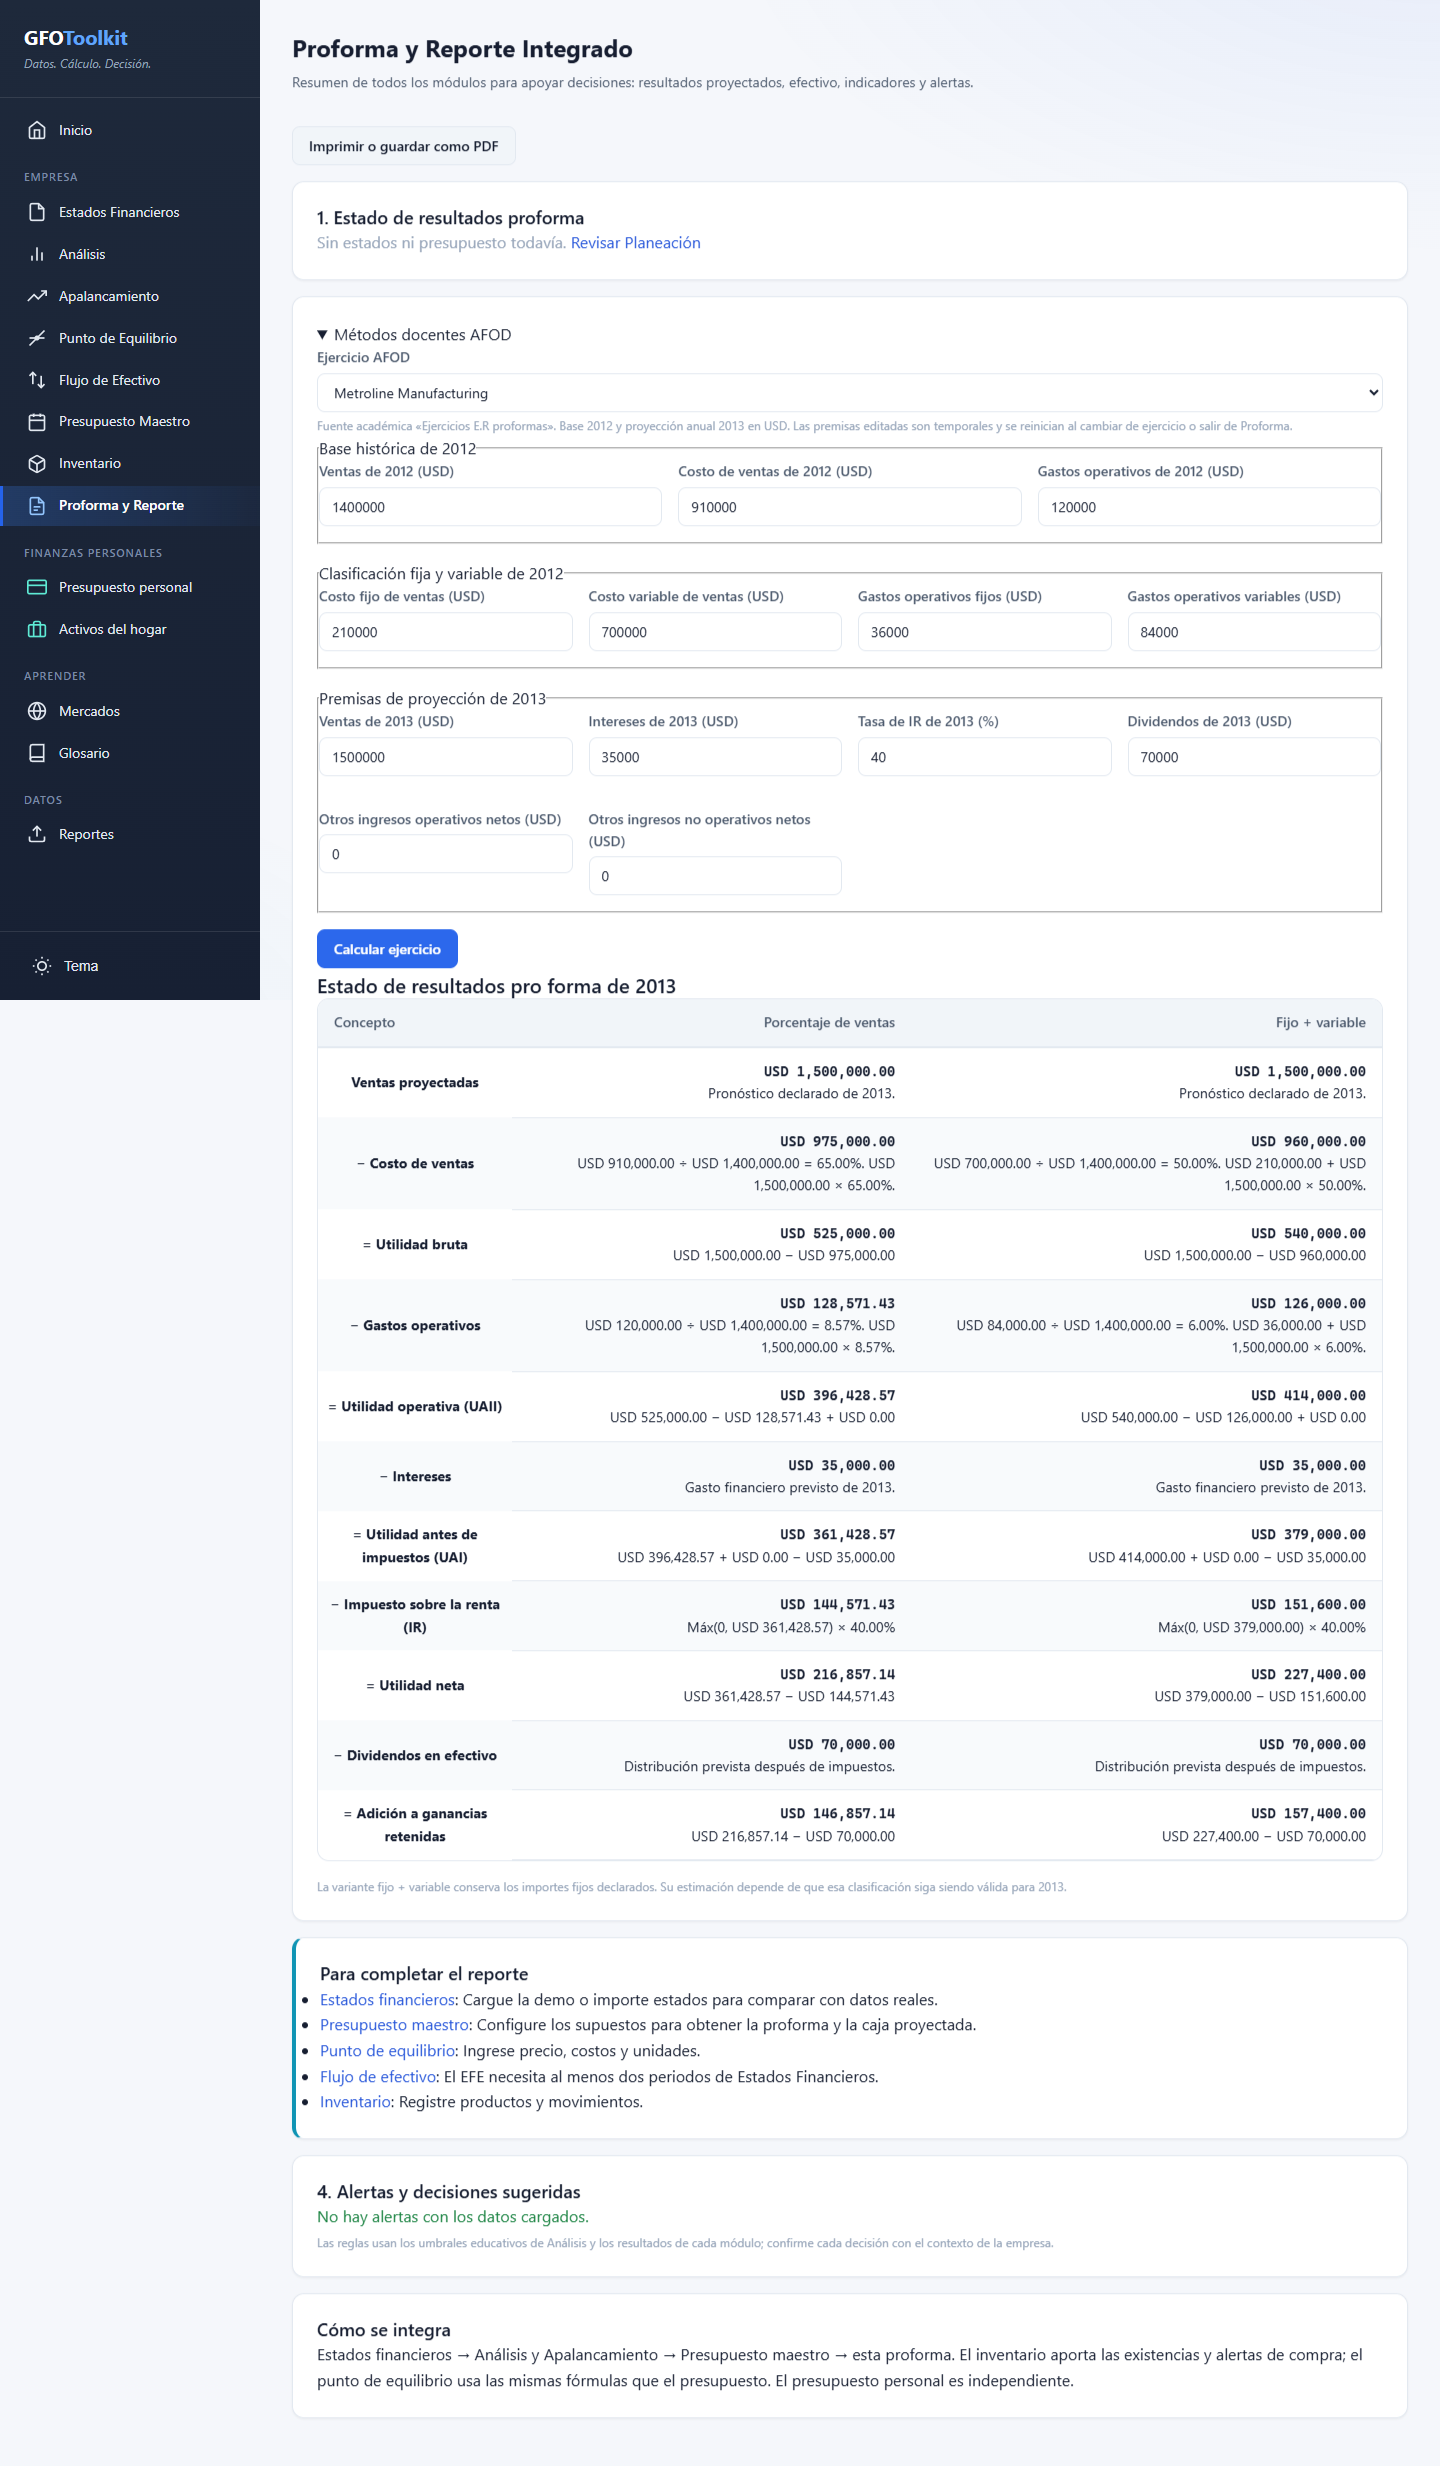
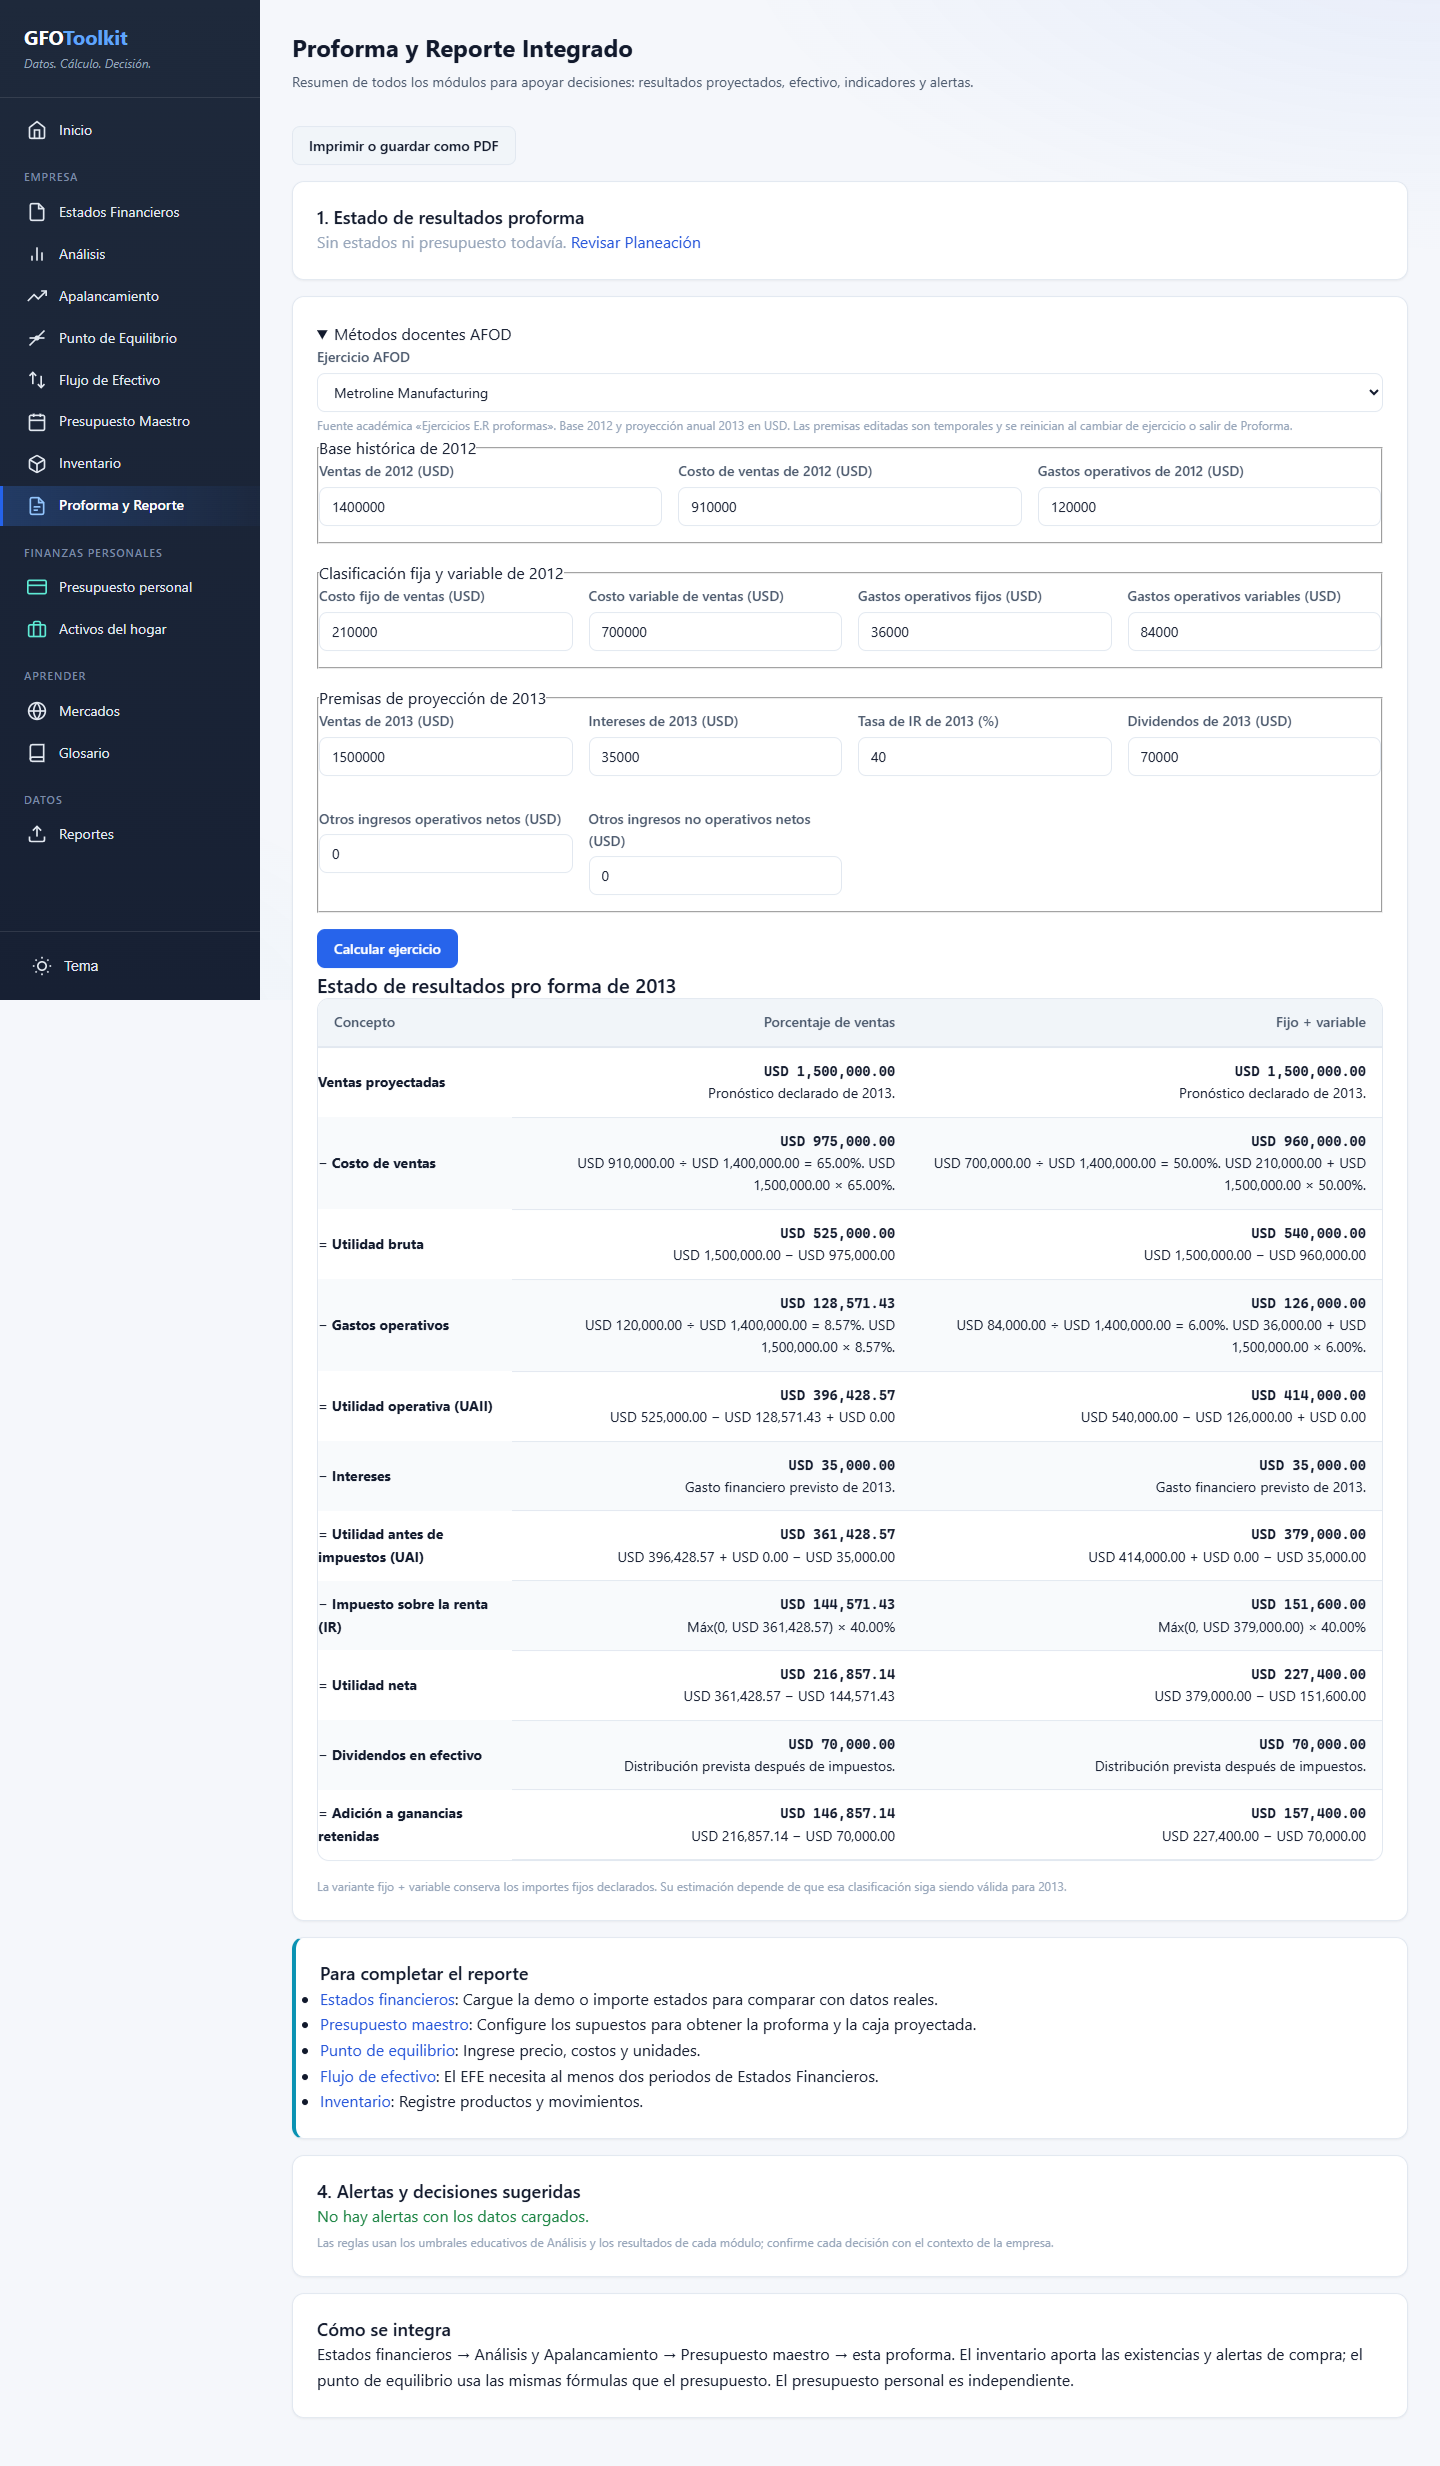
fix: conserva cálculos y limpia conceptos accesorios de caja

Changed region(s): [[0.2188, 0.5933, 0.3438, 0.6869], [0.2188, 0.7182, 0.3125, 0.7494]]

diff --git a/js/modules/planeacion/caja-docente-ui.js b/js/modules/planeacion/caja-docente-ui.js
@@ -12,13 +12,13 @@ function importe(id, etiqueta, numero) {
 }
 
 function campo(id, etiqueta, contenido) {
-  return `<div><label for="${id}">${etiqueta}</label>${contenido}</div>`;
+  return `<div class="form-group"><label class="form-label" for="${id}">${etiqueta}</label>${contenido}</div>`;
 }
 
 function tabla(titulo, etiquetas, filas, formatear = esc) {
-  return `<div class="card mb-3"><h3 class="card-title">${titulo}</h3><div class="table-wrapper"><table class="statement-table">
+  return `<div class="card mb-4"><h3 class="card-title">${titulo}</h3><div class="table-wrapper"><table class="statement-table">
     <thead><tr><th scope="col">Concepto</th>${etiquetas.map(p => `<th scope="col" class="text-right">${esc(p)}</th>`).join('')}</tr></thead>
-    <tbody>${filas.map(([etiqueta, datos]) => `<tr><th scope="row">${esc(etiqueta)}</th>${datos.map(dato =>
+    <tbody>${filas.map(([etiqueta, datos]) => `<tr><th scope="row" style="text-align:left">${esc(etiqueta)}</th>${datos.map(dato =>
       `<td class="text-right font-mono">${formatear(dato)}</td>`).join('')}</tr>`).join('')}</tbody>
   </table></div></div>`;
 }
@@ -38,7 +38,7 @@ function supuestos(plan) {
   const movimientos = tabla('Cobros y pagos declarados por fecha', meses, MOVIMIENTOS_CAJA.map(([id, nombre]) =>
     [nombre, plan.movimientos[id].map((v, i) => importe(`cajaDoc-${id}-${i}`, `${nombre} de ${meses[i]}`, v))]), String);
   return `<form id="formCajaDocente">
-    <div class="form-grid mb-3">
+    <div class="form-row mb-4">
       ${campo('cajaDoc-apertura', 'Saldo inicial', importe('cajaDoc-apertura', 'Saldo inicial', plan.apertura))}
       ${campo('cajaDoc-minimo', 'Saldo mínimo', importe('cajaDoc-minimo', 'Saldo mínimo', plan.minimo))}
       ${campo('cajaDoc-pctCompras', 'Compras como % de ventas', importe('cajaDoc-pctCompras', 'Compras como % de ventas', aPct(plan.pctCompras)))}
@@ -47,7 +47,7 @@ function supuestos(plan) {
     </div>
     <p class="form-hint">Escriba los porcentajes separados por espacios. El primero corresponde al mismo mes y los siguientes a los meses posteriores. Use cero para una ausencia confirmada y deje vacío un importe pendiente.</p>
     <details><summary>Editar ventas, gastos y movimientos</summary>${ventas}${gastos}${movimientos}</details>
-    <div class="d-flex flex-wrap gap-2 mt-3">
+    <div class="flex-gap flex-wrap mt-4">
       <button type="submit" value="calcular" class="btn btn-secondary">Calcular calendario</button>
       <button type="submit" value="guardar" class="btn btn-primary">Calcular y guardar</button>
     </div>
@@ -80,7 +80,7 @@ function resultados({ meses, moneda, financiamientoMaximo }) {
     ${origenes('Programación de pagos por origen', 'proveedores')}
     ${tabla('Otros cobros y desembolsos', periodos, [
       ...filas([MOVIMIENTOS_CAJA[0]], 'movimientos'), ...filas(GASTOS_CAJA, 'gastos'), ...filas(PAGOS_CAJA, 'movimientos')
-    ], monto)}`;
+    ].filter(([, importes]) => importes.some(importe => importe !== 0)), monto)}`;
 }
 
 function leerFormulario(form, plan) {
@@ -120,7 +120,7 @@ export function crearCajaDocenteUI(guardado, guardar) {
     const render = () => {
       const caso = CASOS_CAJA.find(([id]) => id === plan?.id);
       const halley = caso?.[0].startsWith('halley');
-      panel.innerHTML = `<div class="card mb-3"><h2 class="card-title">Presupuesto de caja por calendario</h2>
+      panel.innerHTML = `<div class="card mb-4"><h2 class="card-title">Presupuesto de caja por calendario</h2>
         <p class="form-hint">Escenarios de caja AFOD independientes del presupuesto maestro. El impuesto pagado se captura por fecha y los meses previos solo originan cobros y pagos.</p>
         <label for="cajaDocCaso">Referencia</label>
         <select id="cajaDocCaso" class="form-select">${CASOS_CAJA.map(([id, nombre]) =>

diff --git a/tests/unit/revision-carlos-pr34.test.js b/tests/unit/revision-carlos-pr34.test.js
@@ -8,9 +8,25 @@ import { ejemploInventario } from '../../js/modules/inventario/inventario-calcul
 import { transferenciaInventario } from '../../js/utils/transferencias.js';
 import { montarProformaDocente } from '../../js/modules/proforma/proforma-docente-ui.js';
 import { CASOS_PROFORMA_DOCENTE } from '../../js/modules/proforma/proforma-docente-ejemplos.js';
+import { crearCajaDocenteUI } from '../../js/modules/planeacion/caja-docente-ui.js';
+import { ejemploCajaDocente } from '../../js/modules/planeacion/caja-docente-ejemplos.js';
 import { element, llenar, enviar } from './helpers/dom-falso.js';
 
 afterEach(() => { vi.unstubAllGlobals(); vi.clearAllMocks(); });
+
+it('caja omite conceptos accesorios sin movimientos, conservando N/D y cálculos internos cero', () => {
+  const panel = element(), plan = ejemploCajaDocente('halley');
+  crearCajaDocenteUI(plan, vi.fn())(panel);
+  const html = panel.innerHTML.split('id="cajaDocResultados">')[1];
+  expect(html).not.toContain('>Publicidad</th>');
+  expect(html).toContain('>Impuesto pagado</th>');
+  expect(html).toContain('Financiamiento requerido');
+  expect(html).toContain('USD 0.00');
+  plan.gastos.publicidad.tasa = null;
+  crearCajaDocenteUI(plan, vi.fn())(panel);
+  expect(panel.innerHTML.split('id="cajaDocResultados">')[1]).toContain('>Publicidad</th>');
+  expect(panel.innerHTML.split('id="cajaDocResultados">')[1]).toContain('N/D');
+});
 
 it.each(['USD','UM','C$'])('Planeación conserva la moneda %s al preparar la transferencia de Inventario', moneda => {
   estado.inventario = { ...ejemploInventario(), moneda };

diff --git a/js/modules/proforma/proforma-docente-ui.js b/js/modules/proforma/proforma-docente-ui.js
@@ -58,7 +58,7 @@ function tabla(titulo, columnas, filas) {
   return `<section class="mb-4"><h3>${esc(titulo)}</h3><div class="table-wrapper">
     <table class="statement-table"><thead><tr><th scope="col">Concepto</th>
     ${columnas.map(nombre => `<th scope="col" class="text-right">${esc(nombre)}</th>`).join('')}</tr></thead>
-    <tbody>${filas.map(([nombre, ...celdas]) => `<tr><th scope="row">${esc(nombre)}</th>
+    <tbody>${filas.map(([nombre, ...celdas]) => `<tr><th scope="row" style="text-align:left">${esc(nombre)}</th>
       ${celdas.map(([valor, desarrollo]) => `<td class="text-right">
         <strong class="font-mono">${monto(valor)}</strong><span class="desarrollo-operacion">${esc(desarrollo)}</span>
       </td>`).join('')}</tr>`).join('')}</tbody></table></div></section>`;

diff --git a/docs/planificacion/cierre-encargo-afod/revision/DICTAMEN.md b/docs/planificacion/cierre-encargo-afod/revision/DICTAMEN.md
@@ -43,13 +43,15 @@ Se revisaron además los cambios de UAI reportada, correctora de incobrables, si
 
 ## Robustez, compatibilidad e interfaz
 
+La tabla de otros cobros/desembolsos de caja aplica la misma regla de accesorios: omite solo conceptos cuyos meses son todos cero, preserva N/D y conserva la conciliación y sus resultados internos. Una quinta regresión cubre esta salida. Se sustituyen además clases de cuadrícula/espaciado inexistentes por `form-row` y `flex-gap`, y se alinean a la izquierda los conceptos de las tablas nuevas. La comprobación en navegador cubre el ajuste de distribución.
+
 Las transferencias muestran actual/propuesto, unidad, naturaleza y procedencia; vuelven a leer origen/destino al aplicar. La firma impide aplicar una vista previa desactualizada. En Planeación/C-V-U se aplica al borrador y guardar valida/persiste; Flujo guarda el módulo completo. Una edición manual retira la procedencia del campo y un cambio posterior del origen deja aviso.
 
 La validación de respaldos admite metadata opcional y caja docente, rechaza datos inválidos y conserva la compatibilidad anterior. Se revisaron las rutas que guardan caja para que no sustituyan el presupuesto maestro ni sus borradores. El error de escritura no publica un estado parcial.
 
 Verificaciones reproducidas:
 
-- [2252 pruebas aprobadas, 80 archivos](pruebas.json), frente a 2248/79 del PR original.
+- [2253 pruebas aprobadas, 80 archivos](pruebas.json), frente a 2248/79 del PR original.
 - [Lint sin errores, diez avisos previos](lint.json). Sin dependencias nuevas.
 - Guion de Comercial Ejemplo: cinco rutas, 18 combinaciones de vista/tamaño/tema, copia, guardado, recarga y costo pendiente con unidades conservadas.
 - [Recorrido propio](revisar.cjs) y [resultado](navegador.json): once rutas; cuatro ejercicios de Proforma; cinco calendarios de caja; recálculo, guardado y recarga; transferencias con moneda incompatible y origen actualizado durante la vista previa; fallo de cuota y reintento; reporte de la proyección.

diff --git a/CHANGELOG.md b/CHANGELOG.md
@@ -15,7 +15,7 @@ Todos los cambios notables en GFO Toolkit.
 - Referencia parcial de Planeación identificada por separado; cargar un presupuesto completo confirma el reemplazo de sus escenarios. Inventario conserva el desplazamiento de tablas dentro del ancho móvil.
 
 ### Planeación y Proforma
-- Revisión independiente del PR #34: las transferencias de Inventario a Planeación conservan la moneda del origen para bloquear copias incompatibles; el ER docente omite filas accesorias de otros ingresos en cero, conservando N/D y subtotales. Cuatro regresiones y contraste numérico reproducible documentados.
+- Revisión independiente del PR #34: las transferencias de Inventario a Planeación conservan la moneda del origen para bloquear copias incompatibles; el ER docente y caja omiten filas accesorias sin movimientos, conservando N/D y subtotales. Cinco regresiones y contraste numérico reproducible documentados.
 - Proforma incluye los métodos docentes de Euro Designs, Metroline, Leonard y Electrónicas. Planeación calcula los calendarios de La Pinolera y Halley con cuotas por origen y financiamiento declarado (D-105 y D-106).
 - Flujo, Planeación y C-V-U comparten vistas previas de transferencias con selección de campos, control de moneda y procedencia. Reportes presenta la misma proyección que Proforma (D-107).
 - Comercial Ejemplo muestra el costo de ventas y el inventario valorizado por mes, con promedio ponderado y N/D para los importes que requieren datos pendientes (D-104).

diff --git a/docs/planificacion/cierre-encargo-afod/README.md b/docs/planificacion/cierre-encargo-afod/README.md
@@ -46,4 +46,4 @@ Las pruebas dirigidas cotejan los cinco calendarios, los cuatro métodos o varia
 
 ## Revisión previa a integración
 
-Revisión independiente solicitada por Cris, sobre `c721ab2` y las correcciones menores de la rama. [Dictamen, reparaciones y evidencia](revision/DICTAMEN.md): 521 controles numéricos sin diferencias, 2252 pruebas aprobadas en 80 archivos y lint sin errores. Se preservan los límites de Halley y La Grandiosa. El PR #34 contiene la rama del #33, por lo que la valoración se integra una sola vez.
+Revisión independiente solicitada por Cris, sobre `c721ab2` y las correcciones menores de la rama. [Dictamen, reparaciones y evidencia](revision/DICTAMEN.md): 521 controles numéricos sin diferencias, 2253 pruebas aprobadas en 80 archivos y lint sin errores. Se preservan los límites de Halley y La Grandiosa. El PR #34 contiene la rama del #33, por lo que la valoración se integra una sola vez.
